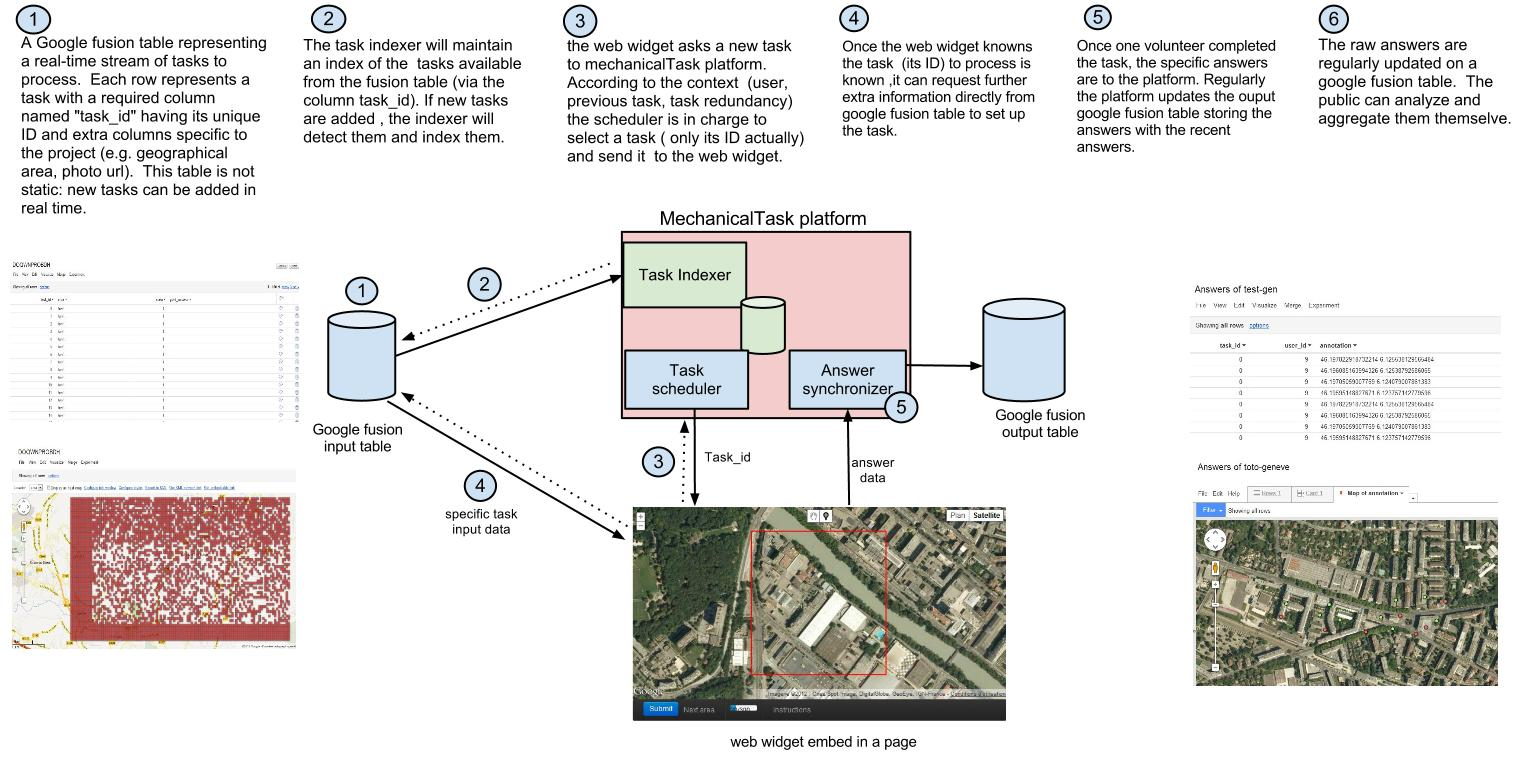
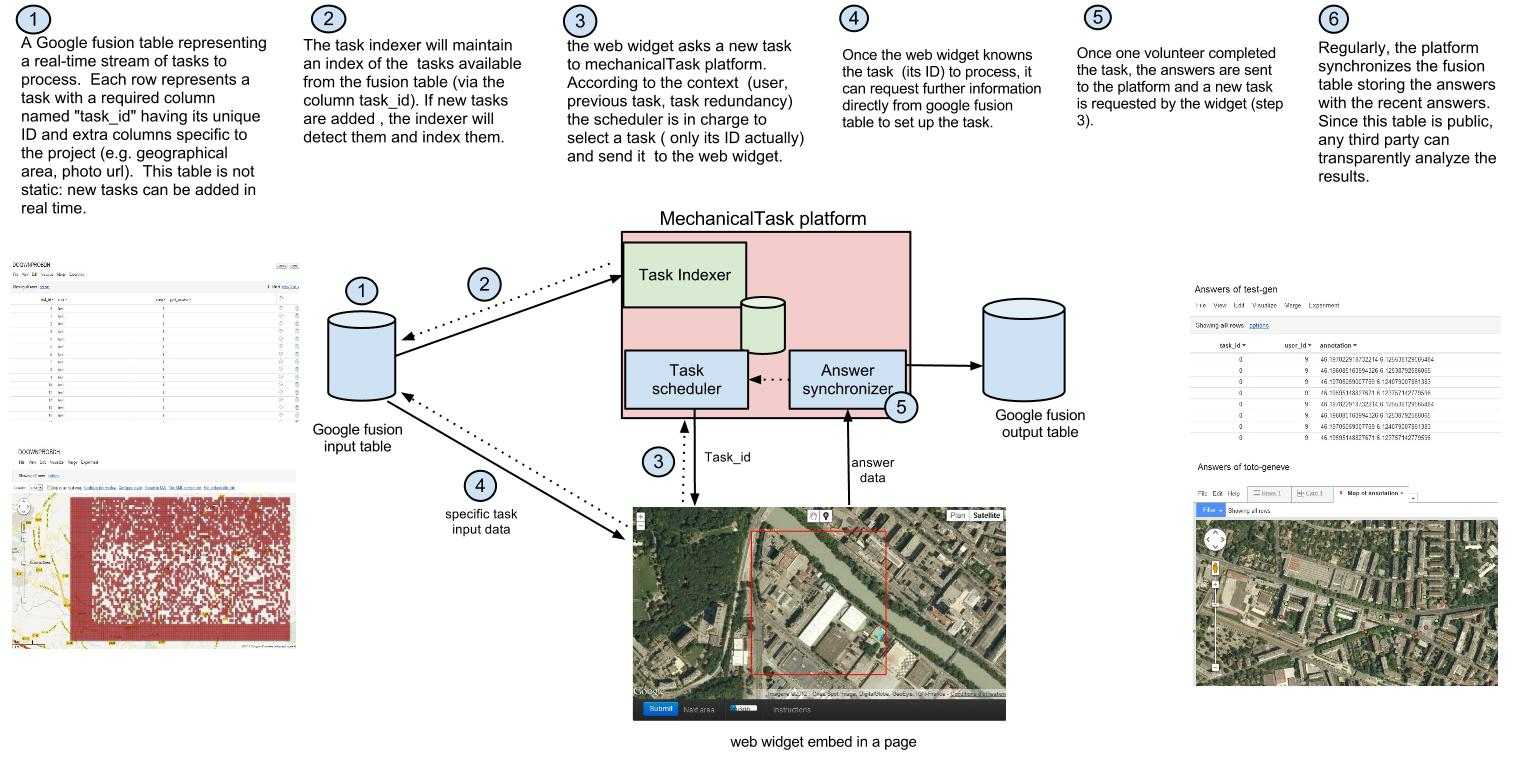
index

Changed region(s): [[0.5299, 0.0302, 0.9974, 0.2418]]

diff --git a/app/views/home/index.html b/app/views/home/index.html
@@ -3,7 +3,7 @@
     <div class="span12">
         <h1>MechanicalTask
             <br/>
-            <small>Platform for experimentating crowdsourcing projects using a micro-task driven approach.
+            <small>Cloud Toolkit for experimentating crowdsourcing projects using a micro(stupid)-task driven approach.
             </small>
         </h1>
 
@@ -48,22 +48,17 @@
         having some basic
         knowledge in html/javascript. It is based on two main principles.
         <ul>
-            <li><h3>You host the project not its infrastructure</h3>
+            <li><h3>Beyond monolithic/standalone projects: embeddable micro-tasks</h3>
 
-                <p>MechanicalTask avoids the need to deploy a server and a database to launch a crowdsourcing project.
-                    But MechanicalTask is also not a platform to host projects. Actually it generates web widgets you can embed in your
-                    own website. so you host the project on your website (with further tutorials etc) without hosting its
-                    infrastructure. <br/> MechanicalTask is a distributed infrastructure with a kind of search engine
-                    maintaining an index of available tasks for volunteers  via <a
-                            href="http://www.google.com/fusiontables/public/tour/index.html">a google fusion
-                        table</a> used as a stream of micro-tasks to process. MechanicalTask manages the allocation of tasks and send the
-                    results
-                    to another fusion table (output) we generated.
-                    You are only in charge of the user interface to
-                    collect
-                    the data via a HTML/javascript template. Some helpers/libraries are available. We will use this
-                    template to generate the web widget <!-- (and the output fusion table)--> .You can be creative and generate small web widgets that you can used as a captcha for your website or as new kind of
-                    banner 'with a purpose' you can distribute to your partners' websites instead of advertising.</p>
+                <p>MechanicalTask avoids the need to deploy a server and a database to prototype a crowdsourcing
+                    project.
+                    But MechanicalTask is also not a platform to host projects. Actually it generates web widgets you
+                    can embed in your
+                    own website like a youtube video. So you host the project on your website (with further tutorials etc) without hosting
+                    its
+                    infrastructure. You can be creative and generate small web widgets used as a captcha
+                    for your website, or as an 'active' banner you can distribute to your partners'
+                    websites instead of advertising. You can also more easily create facebook apps</p>
             </li>
 
             <li>
@@ -72,7 +67,7 @@
 
                 <p>
                     We think that what is valuable is not only the data but also the mechanism you used to
-                    collect them.
+                    collect them, engage people.
                     So if you
                     generate a
                     project via this platform your html/script template will be automatically shared with the
@@ -90,15 +85,32 @@
 
 </div>
 <hr class="soften">
+<h2>How does it work?</h2>
+MechanicalTask is a distributed infrastructure using <a
+        href="http://www.google.com/fusiontables/public/tour/index.html"> google fusion
+    tables</a> to store your tasks and the answers of volunteers. we use google fusion and not our database because it easily enables third parties to
+view, export, visualize or event insert data via a user interface or an API. MechanicalTask maintains an index of available
+tasks
+for volunteers via a first fusion table used as a stream of micro-tasks to process.
+You are only in charge of the user interface to
+collect
+the data via a HTML/javascript template. Some helpers/libraries are available. We will use this
+template to generate the web widget ready to start.
+Once embedded on a website, people can start play and complete some tasks.
+MechanicalTask manages the allocation of tasks  (with a given redundancy) to the pool of users and send the results to another fusion table (output) we generated.
+
+<span class="">Note</span> .
 
 
+<img src="/assets/architecture.jpg" width="100%"/>
+<hr/>
 <h2> Demo of web widgets</h2>
 
 <div class="row">
     <div class="span7">
         <h3>Images classification</h3>
 
-        <p>Another common example is to classify a large amount of photos.
+        <p>A common toy example is to classify a large amount of photos.
             In this example we assume you have csv or xsl spreadsheets with all the url of the images to classify.
             Each row is a task with for instance the url of the image to classify.
 
@@ -130,10 +142,28 @@
     </div>
     <div class="span5">
         <p><strong> Play with the web widget!</strong>
-            <small><a href="#">more information (data and code source)</a></small>
+
         </p>
-        <iframe width="100%" height="320px" frameborder="0" scrolling="no"
-                src="http://mechanicaltask.dev.fabelier.org/apps/5?embeddable=1"></iframe>
+        <iframe width="100%" height="360px" frameborder="0" scrolling="no"
+                src="http://mechanicaltask.dev.fabelier.org/apps/5?embeddable=1" style="border: 1px solid #000000"></iframe>
+        Copy & paste this code to embed it on your website
+        <textarea rows="3" class="span5"><iframe width="100%" height="320px" frameborder="0" scrolling="no" src="http://mechanicaltask.dev.fabelier.org/apps/5?embeddable=1"></iframe>
+    </textarea> <p> <small><a href="#">more information (data and template code source)</a></small></p>
+    </div>
+</div>
+<hr/>
+<div class="row">
+    <div class="span5">
+        <h3>Tagging Images</h3>
+
+        <p>A similar example is about annotating large amount of images e.g. tagging galaxies like GalaxyZoo.
+            In this case the input table is the same as for the previous example about classifying images.
+            Only the instructions , and tools to process the task change. So only the UI template needs to be updated.
+
+        </p>
+
+    </div>
+    <div class="span7">
 
     </div>
 </div>
@@ -236,29 +266,16 @@
 </div>
 <hr/>
 
+
+<h2>Task composition: from micro to macro tasks</h2>
+
+TODO fun example with a "human cellular automaton"
+                                  <img src="http://www.economicsnetwork.ac.uk/cheer/ch17/hand1.gif" />
 <hr/>
-<div class="row">
-    <div class="span5">
-        <h3>Tagging Images</h3>
+<h2>Credits</h2>
+<a href="mailto:n.maisonneuve@gmail.com">NM</a>
 
-        <p>A similar example is to annotate large amount of images (tag galaxies).
-            In this case the tasks input table is the same as classifying images. Only the instructions and tools to
-            do the task change.
-            So only the UI template needs to be updated.
-        </p>
 
-    </div>
-    <div class="span7">
-
-    </div>
-</div>
-<h2> Architecture</h2>
-
-<div class="row">
-    <div class="span12">
-        <img src="/assets/architecture.jpg" width="100%"/>
-    </div>
-</div>
 </div>
 </div>
 <script type="text/javascript">
@@ -267,10 +284,13 @@
     _gaq.push(['_setAccount', 'UA-30505488-1']);
     _gaq.push(['_trackPageview']);
 
-    (function() {
-        var ga = document.createElement('script'); ga.type = 'text/javascript'; ga.async = true;
+    (function () {
+        var ga = document.createElement('script');
+        ga.type = 'text/javascript';
+        ga.async = true;
         ga.src = ('https:' == document.location.protocol ? 'https://ssl' : 'http://www') + '.google-analytics.com/ga.js';
-        var s = document.getElementsByTagName('script')[0]; s.parentNode.insertBefore(ga, s);
+        var s = document.getElementsByTagName('script')[0];
+        s.parentNode.insertBefore(ga, s);
     })();
 
 </script>
